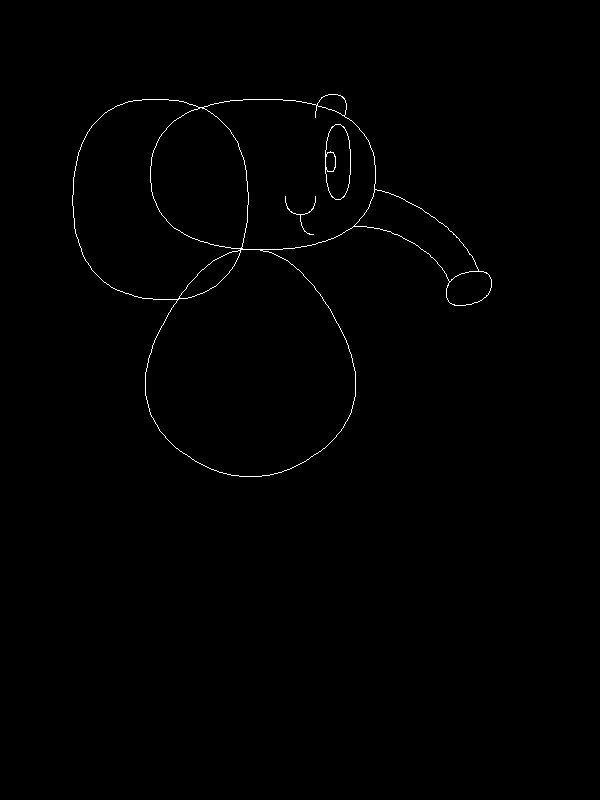
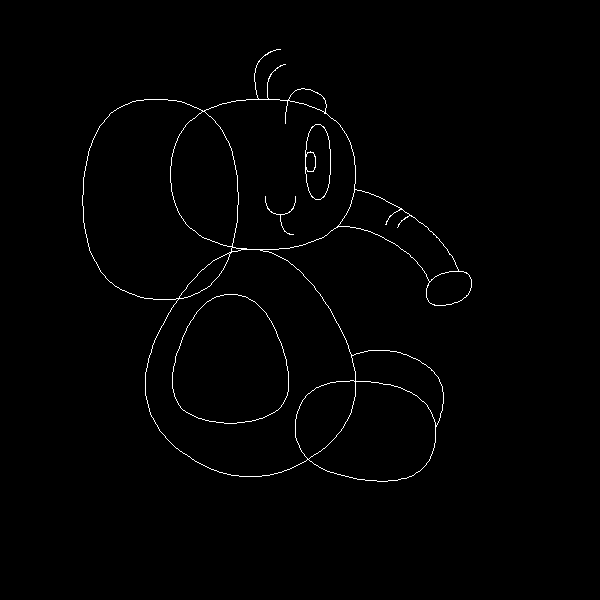
Added hair and reshaped head for elephant.

diff --git a/main.cpp b/main.cpp
@@ -2,22 +2,25 @@
 
 void renderElephant () {
     int width = 600;
-    int height = 800;
-    Point2f ear [] {{85.f, 705.f}, {240.f, 695.f}, {235.f, 495.f}, {80.f, 505.f}};
-    Point2f head [] {{150.f, 700.f}, {375.f, 700.f}, {375.f, 550.f}, {150.f, 550.f}};
-    Point2f eye [] {{325.f, 675.f}, {350.f, 675.f}, {350.f, 600.f}, {325.f, 600.f}};
-    Point2f iris [] {{325.f, 647.5f}, {335.f, 647.5f}, {335.f, 627.5f}, {325.f, 627.5f}};
-    Point2f mouth [] {{300.f, 604.f}, {300.f, 565.f}, {325.f, 565.f}};
-    Point2f cheek [] {{285.f, 620.f}, {285.f, 585.f}, {315.f, 585.f}, {315.f, 620.f}};
-    Point2f eyebrow [] {{315.f, 660.f}, {315.f, 705.f}, {350.f, 705.f}, {339.f, 665.f}};
-    Point2f trunkbot [] {{325.f, 570.f}, {380.f, 575.f}, {440.f, 540.f}, {455.f, 500.f}};
-    Point2f trunktop [] {{350.f, 615.f}, {400.f, 605.f}, {465.f, 560.f}, {490.f, 500.f}};
-    Point2f trunknose [] {{446.f, 523.f}, {491.f, 532.f}, {491.f, 500.f}, {446.f, 490.f}};
-    Point2f tline1 [] {{403.f, 565.f}, {408.f, 585.f}, {433.f, 595.f}};
-    Point2f tline2 [] {{415.f, 565.f}, {420.f, 580.f}, {441.f, 588.5f}};
-    Point2f body [] {{200.f, 550.f}, {300.f, 550.f}, {380.f, 390.f}, {250.f, 300.f}, {120.f, 390.f}};
-    Point2f arm [] {{196.f, 505.f}, {265.f, 505.f}, {300.f, 395.f}, {230.f, 370.f}, {160.f, 395.f}};
-    Point2f rleg [] {{300.f, 425.f}, {440.f, 410.f}, {430.f, 310.f}, {290.f, 330.f}};
+    int height = 600;
+    Point2f ear [] {{85.f, 505.f}, {240.f, 495.f}, {235.f, 295.f}, {80.f, 305.f}};
+    Point2f head [] {{170.f, 500.f}, {355.f, 500.f}, {355.f, 350.f}, {170.f, 350.f}};
+    Point2f eye [] {{305.f, 475.f}, {330.f, 475.f}, {330.f, 400.f}, {305.f, 400.f}};
+    Point2f iris [] {{305.f, 447.5f}, {315.f, 447.5f}, {315.f, 427.5f}, {305.f, 427.5f}};
+    Point2f mouth [] {{280.f, 404.f}, {280.f, 365.f}, {305.f, 365.f}};
+    Point2f cheek [] {{265.f, 420.f}, {265.f, 385.f}, {295.f, 385.f}, {295.f, 420.f}};
+    Point2f eyebrow [] {{285.f, 440.f}, {285.f, 515.f}, {330.f, 505.f}, {319.f, 469.f}};
+    Point2f trunkbot [] {{315.f, 370.f}, {360.f, 375.f}, {420.f, 340.f}, {435.f, 300.f}};
+    Point2f trunktop [] {{330.f, 415.f}, {380.f, 405.f}, {445.f, 360.f}, {470.f, 300.f}};
+    Point2f trunknose [] {{426.f, 323.f}, {471.f, 332.f}, {471.f, 300.f}, {426.f, 290.f}};
+    Point2f tline1 [] {{383.f, 365.f}, {388.f, 385.f}, {413.f, 395.f}};
+    Point2f tline2 [] {{395.f, 365.f}, {400.f, 380.f}, {421.f, 388.5f}};
+    Point2f body [] {{200.f, 350.f}, {300.f, 350.f}, {380.f, 190.f}, {250.f, 100.f}, {120.f, 190.f}};
+    Point2f arm [] {{196.f, 305.f}, {265.f, 305.f}, {300.f, 195.f}, {230.f, 170.f}, {160.f, 195.f}};
+    Point2f rleg [] {{300.f, 225.f}, {440.f, 210.f}, {430.f, 110.f}, {290.f, 130.f}};
+    Point2f lleg [] {{320.f, 232.f}, {387.f, 257.f}, {455.f, 217.f}, {417.f, 130.f}};
+    Point2f hair1 [] {{265.f, 472.f}, {250.f, 530.f}, {270.f, 550.f}, {290.f, 550.f}};
+    Point2f hair2 [] {{270.f, 482.f}, {265.f, 520.f}, {280.f, 535.f}, {290.f, 535.f}};
 
     Part parts [] {{ear, sizeof(ear) / sizeof(*ear), true},
                    {head, sizeof(head) / sizeof(*head), true},
@@ -33,7 +36,10 @@ void renderElephant () {
                    {tline2, sizeof(tline2) / sizeof(*tline2), false},
                    {body, sizeof(body) / sizeof(*body), true},
                    {arm, sizeof(arm) / sizeof(*arm), true},
-                   {rleg, sizeof(rleg) / sizeof(*rleg), true}};
+                   {rleg, sizeof(rleg) / sizeof(*rleg), true},
+                   {lleg, sizeof(lleg) / sizeof(*lleg), false},
+                   {hair1, sizeof(hair1) / sizeof(*hair1), false},
+                   {hair2, sizeof(hair2) / sizeof(*hair2), false}};
 
     Sketch sketch {width, height};
     for (int i = 0; i < sizeof(parts) / sizeof(*parts); i++) {
